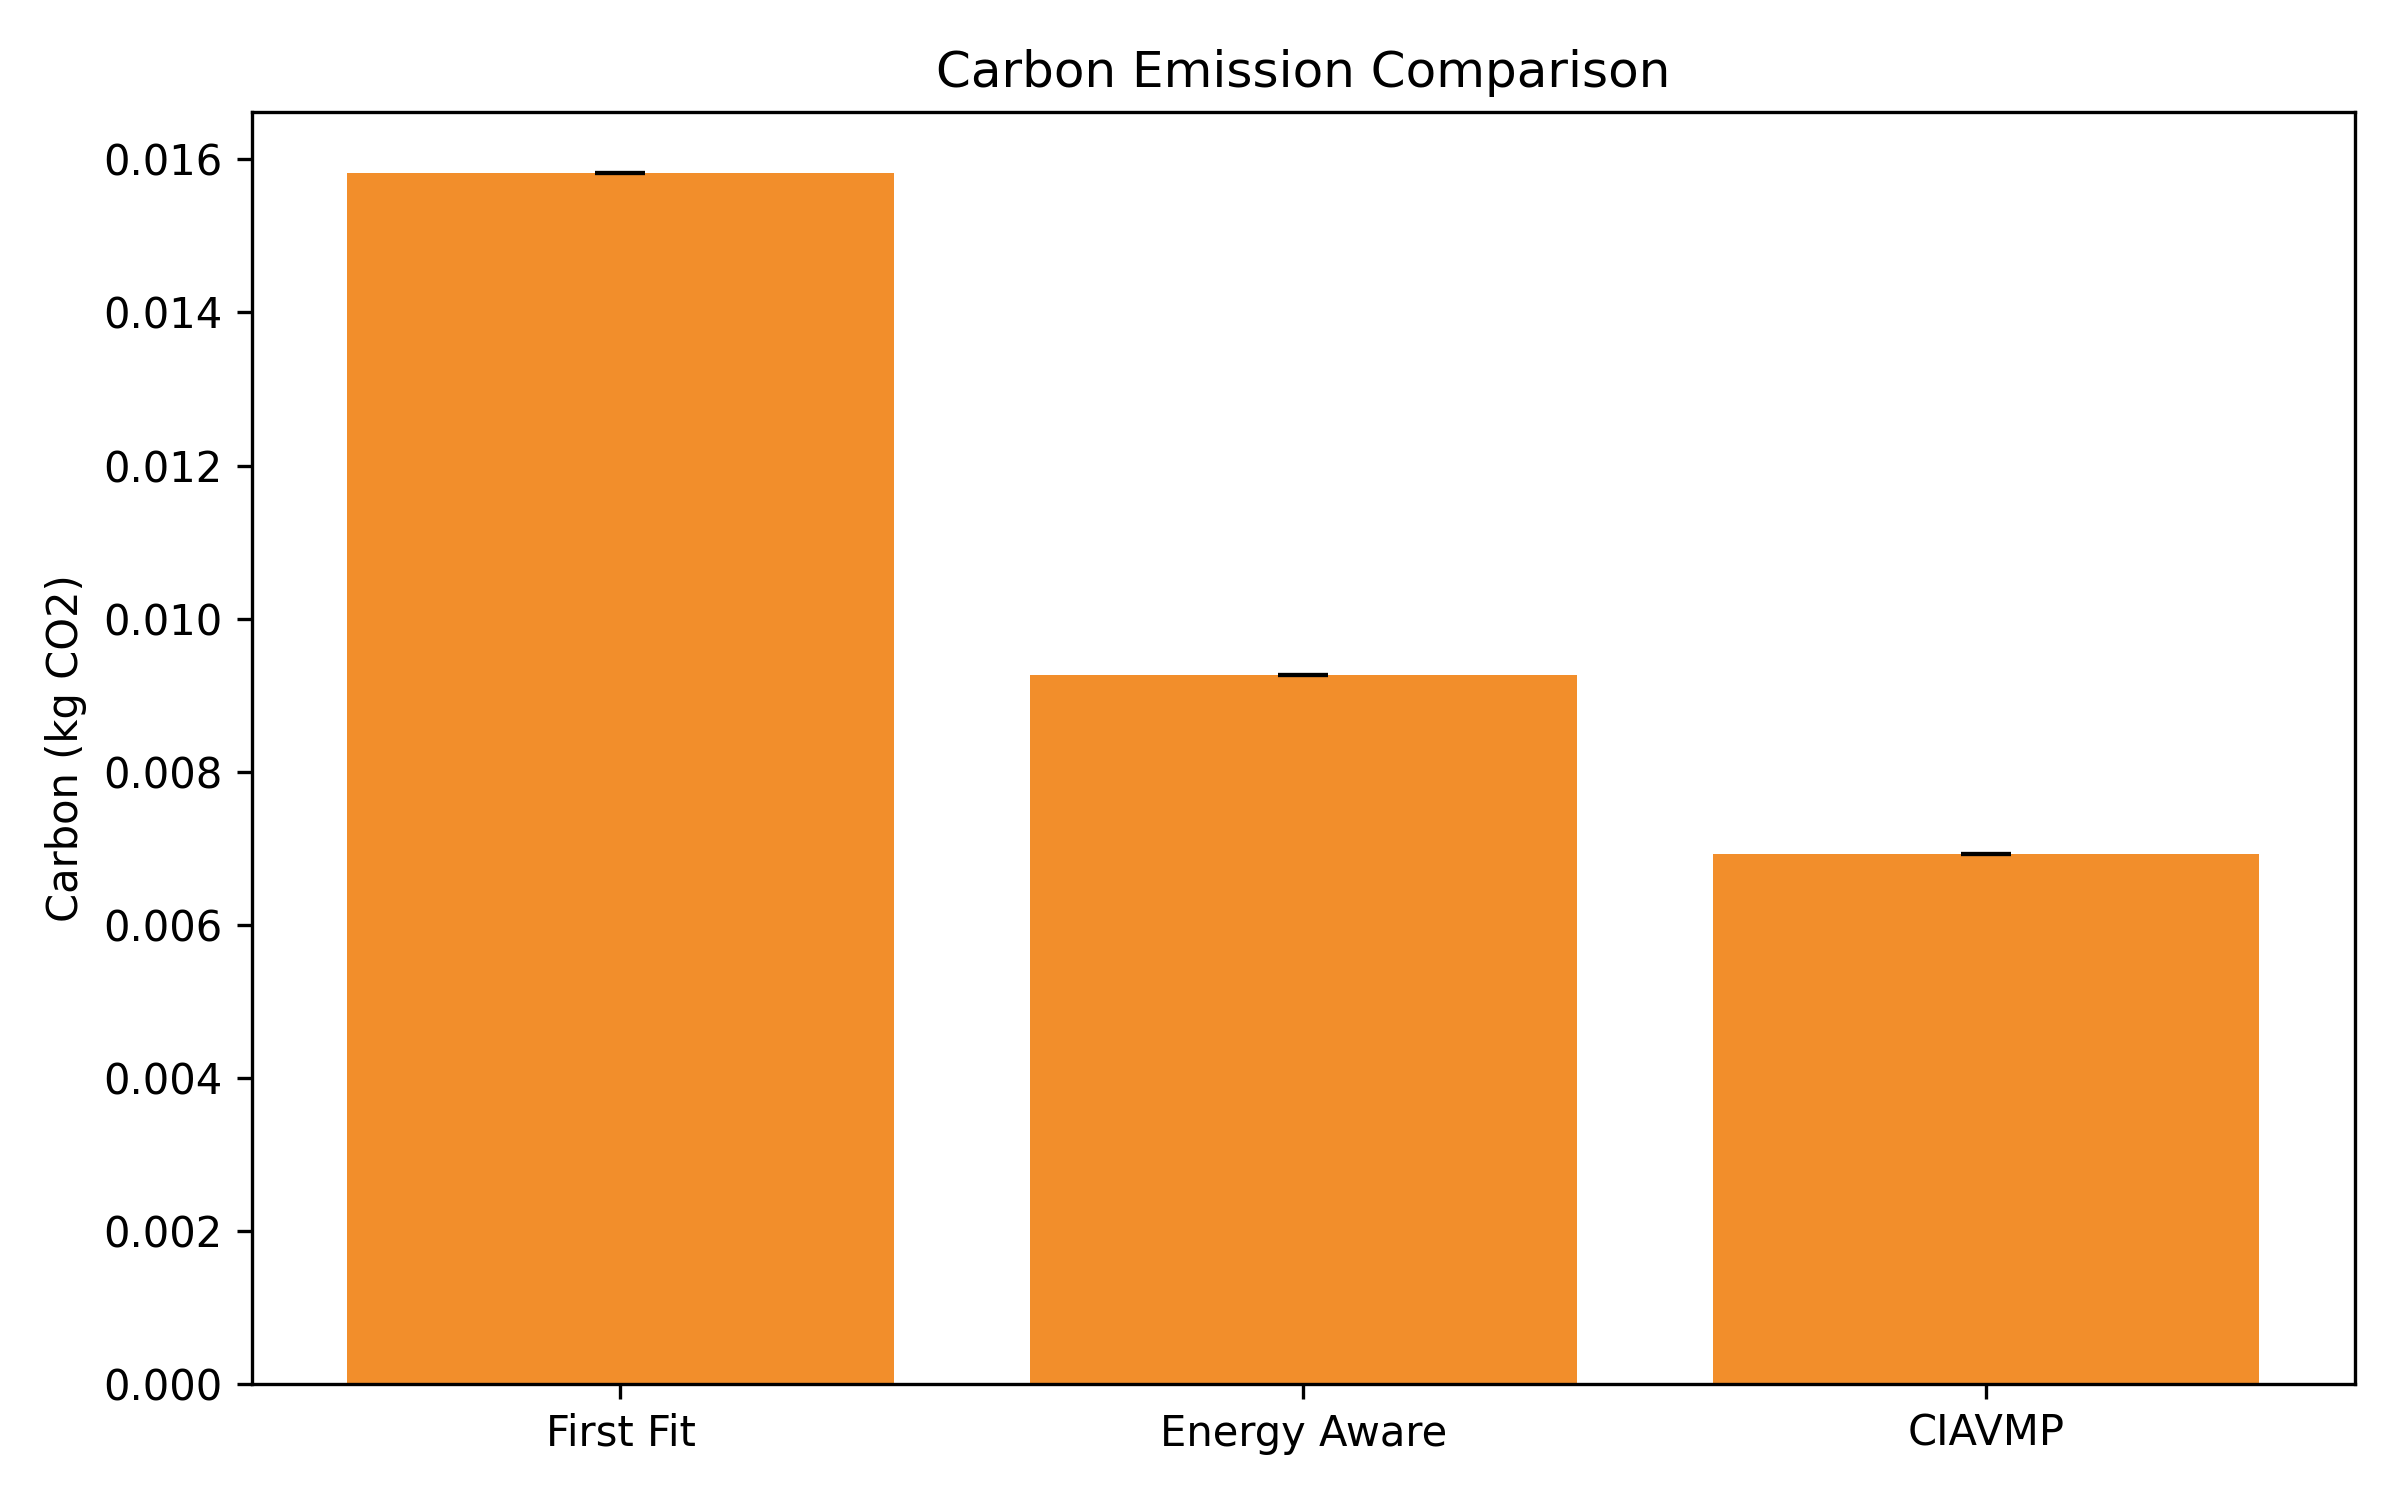
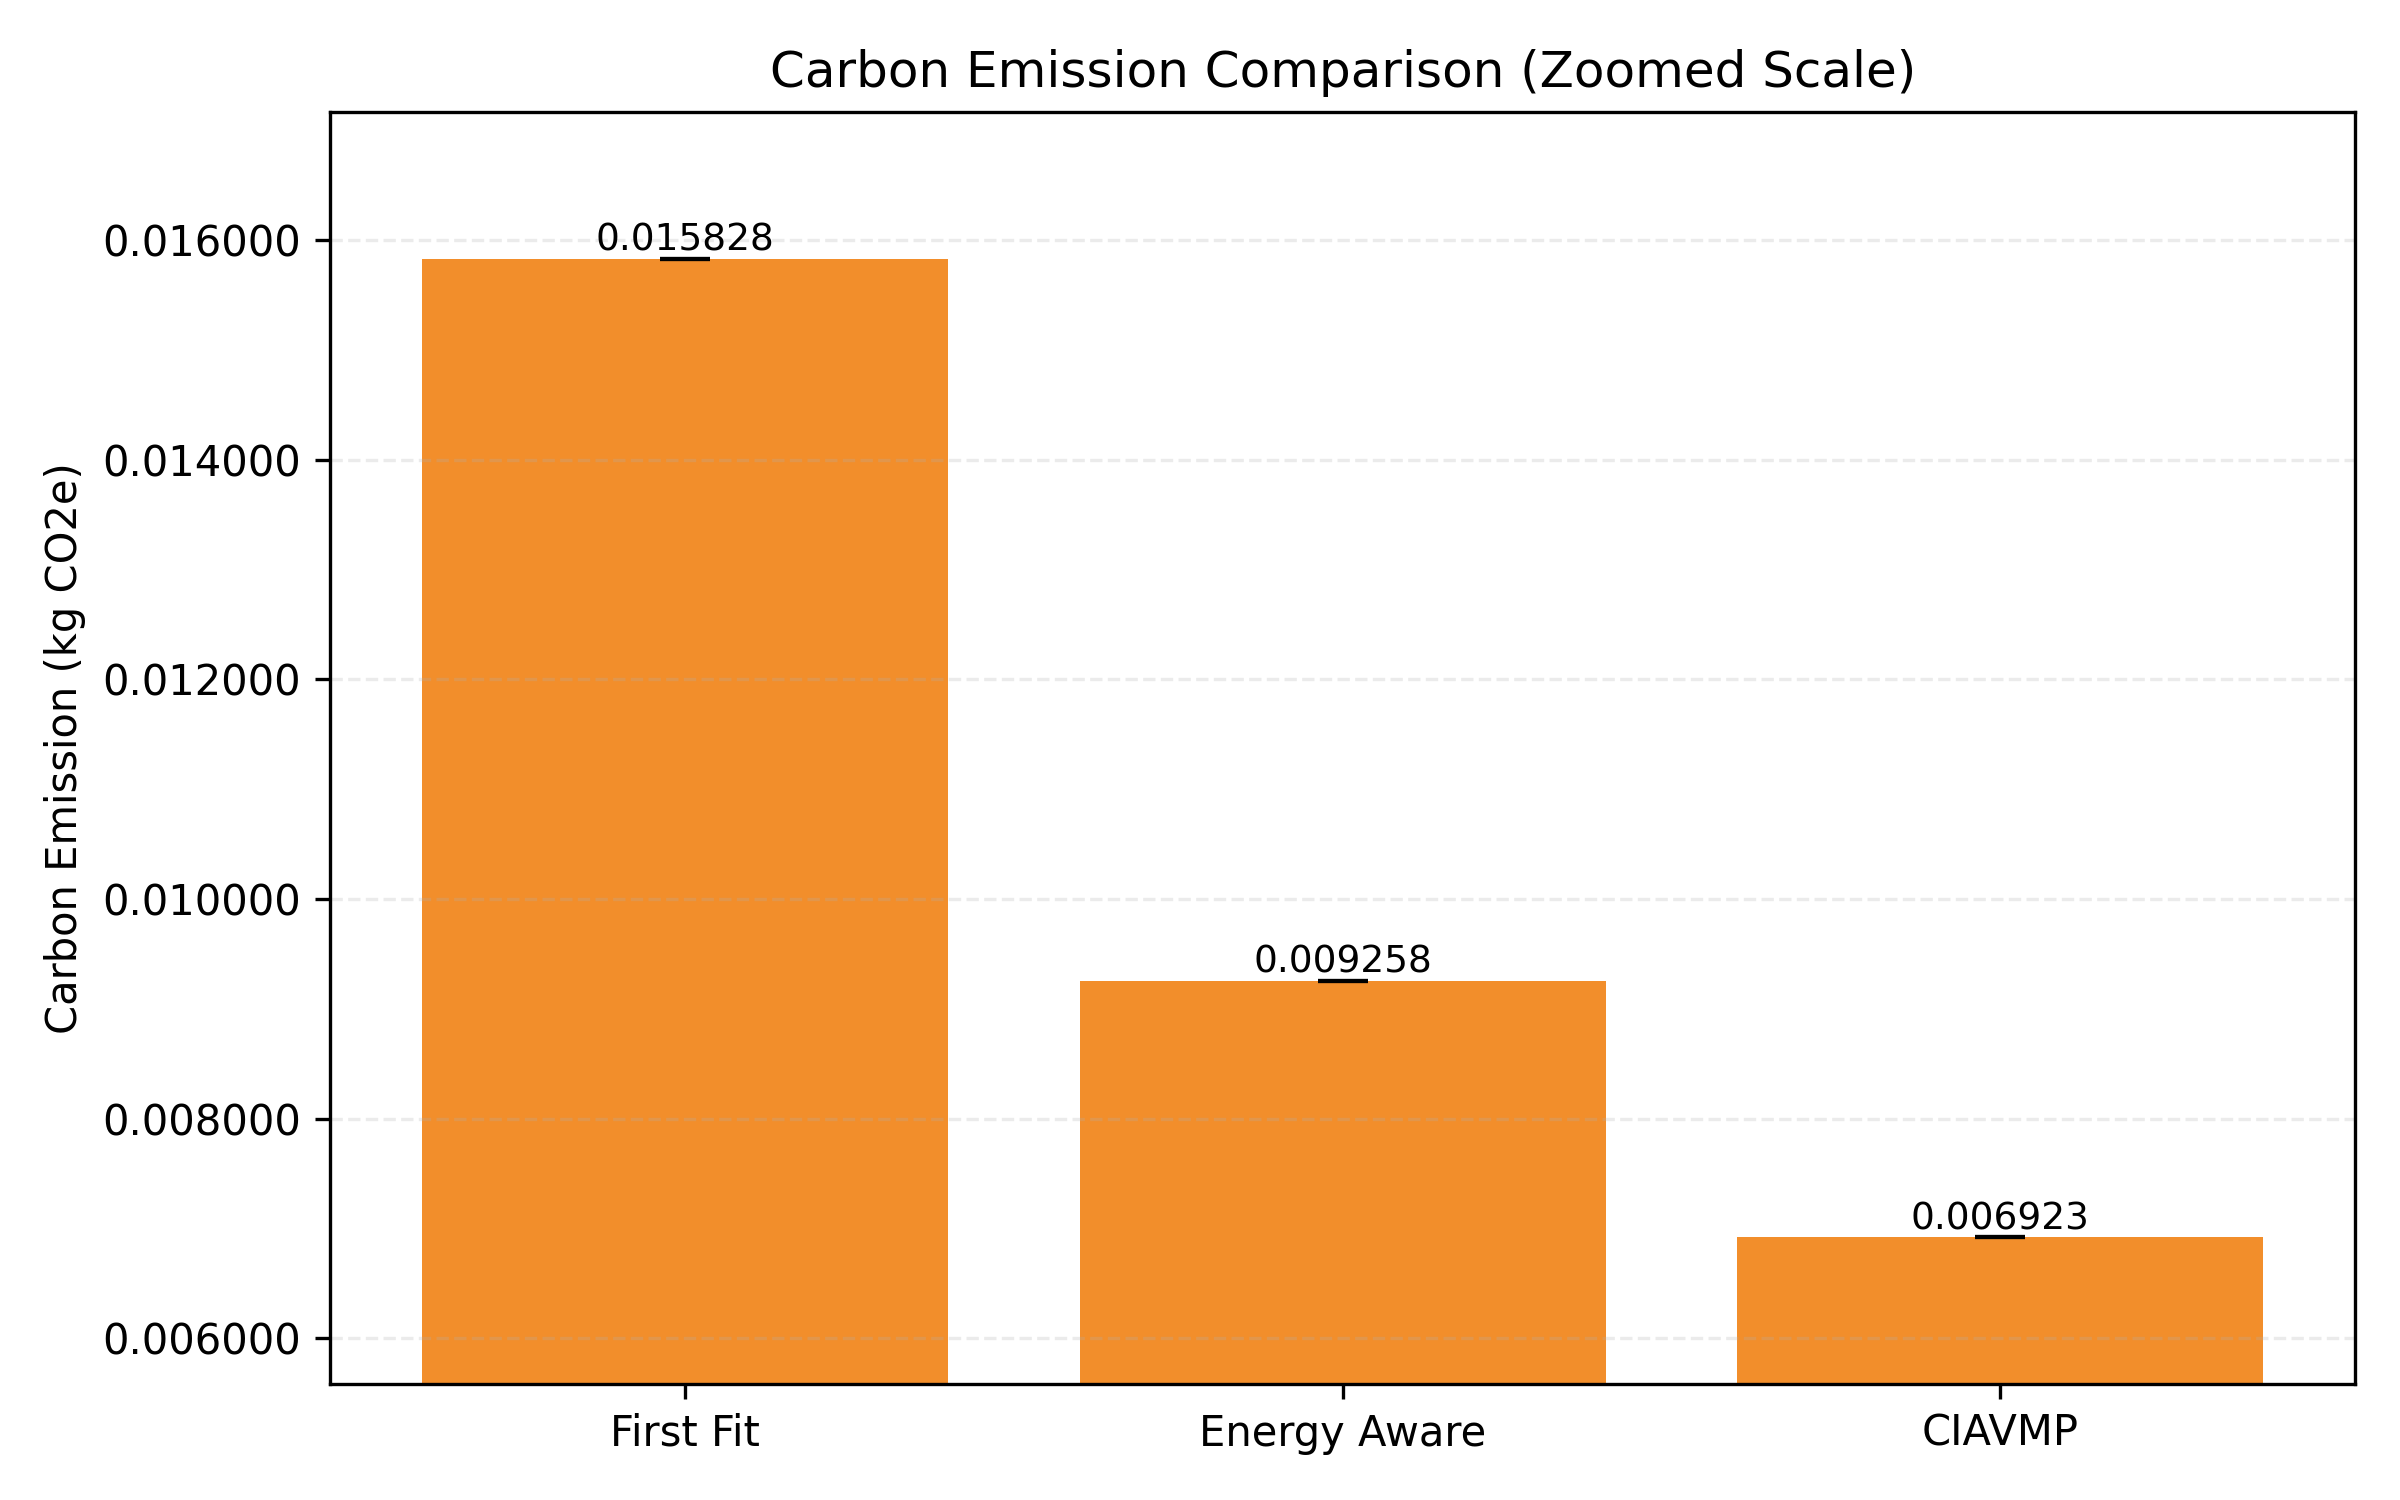
scale changes

diff --git a/plots/plots_results.py b/plots/plots_results.py
@@ -2,6 +2,7 @@ import csv
 from pathlib import Path
 
 import matplotlib.pyplot as plt
+from matplotlib.ticker import FuncFormatter
 
 SUMMARY_CSV = Path("results") / "evaluation_policy_summary.csv"
 
@@ -31,13 +32,49 @@ def save_bar_with_error(
     title,
     output_file,
     color,
+    decimals=2,
 ):
     plt.figure(figsize=(8, 5))
-    plt.bar(labels, means, yerr=stds, capsize=6, color=color)
+    bars = plt.bar(labels, means, yerr=stds, capsize=6, color=color)
     plt.ylabel(ylabel)
     plt.title(title)
+    set_zoomed_y_limits(means, stds)
+    plt.gca().yaxis.set_major_formatter(
+        FuncFormatter(lambda y, _: f"{y:.{decimals}f}")
+    )
+    add_value_labels(bars, means, decimals)
+    plt.grid(axis="y", linestyle="--", alpha=0.25)
     plt.tight_layout()
     plt.savefig(output_file, dpi=300)
+
+
+def set_zoomed_y_limits(means, stds):
+    lower_candidates = [m - s for m, s in zip(means, stds)]
+    upper_candidates = [m + s for m, s in zip(means, stds)]
+    y_min = min(lower_candidates)
+    y_max = max(upper_candidates)
+
+    if y_max <= y_min:
+        y_min *= 0.98
+        y_max *= 1.02
+
+    span = y_max - y_min
+    padding = max(span * 0.15, abs(y_max) * 0.03, 1e-6)
+    plt.ylim(y_min - padding, y_max + padding)
+
+
+def add_value_labels(bars, values, decimals):
+    for bar, value in zip(bars, values):
+        x = bar.get_x() + bar.get_width() / 2
+        y = bar.get_height()
+        plt.text(
+            x,
+            y,
+            f"{value:.{decimals}f}",
+            ha="center",
+            va="bottom",
+            fontsize=9,
+        )
 
 
 if __name__ == "__main__":
@@ -49,10 +86,10 @@ if __name__ == "__main__":
     data = read_summary(SUMMARY_CSV)
     labels = [to_policy_label(row["policy"]) for row in data]
 
-    energy_mean = [float(row["energy_mean_kwh"]) for row in data]
-    energy_std = [float(row["energy_std_kwh"]) for row in data]
-    carbon_mean = [float(row["carbon_mean_kg"]) for row in data]
-    carbon_std = [float(row["carbon_std_kg"]) for row in data]
+    energy_mean = [float(row["energy_mean_kwh"]) for row in data]      # kWh
+    energy_std = [float(row["energy_std_kwh"]) for row in data]        # kWh
+    carbon_mean = [float(row["carbon_mean_kg"]) for row in data]       # kg CO2e
+    carbon_std = [float(row["carbon_std_kg"]) for row in data]         # kg CO2e
     makespan_mean = [float(row["makespan_mean_s"]) for row in data]
     makespan_std = [float(row["makespan_std_s"]) for row in data]
 
@@ -60,20 +97,22 @@ if __name__ == "__main__":
         labels,
         energy_mean,
         energy_std,
-        "Energy (kWh)",
-        "Energy Consumption Comparison",
+        "Energy Consumption (kWh)",
+        "Energy Consumption Comparison (Zoomed Scale)",
         Path("results") / "energy_comparison.png",
         "#4E79A7",
+        decimals=6,
     )
 
     save_bar_with_error(
         labels,
         carbon_mean,
         carbon_std,
-        "Carbon (kg CO2)",
-        "Carbon Emission Comparison",
+        "Carbon Emission (kg CO2e)",
+        "Carbon Emission Comparison (Zoomed Scale)",
         Path("results") / "carbon_comparison.png",
         "#F28E2B",
+        decimals=6,
     )
 
     save_bar_with_error(
@@ -81,9 +120,10 @@ if __name__ == "__main__":
         makespan_mean,
         makespan_std,
         "Makespan (s)",
-        "Execution Time Comparison",
+        "Execution Time Comparison (Zoomed Scale)",
         Path("results") / "makespan_comparison.png",
         "#59A14F",
+        decimals=6,
     )
 
     plt.show()
